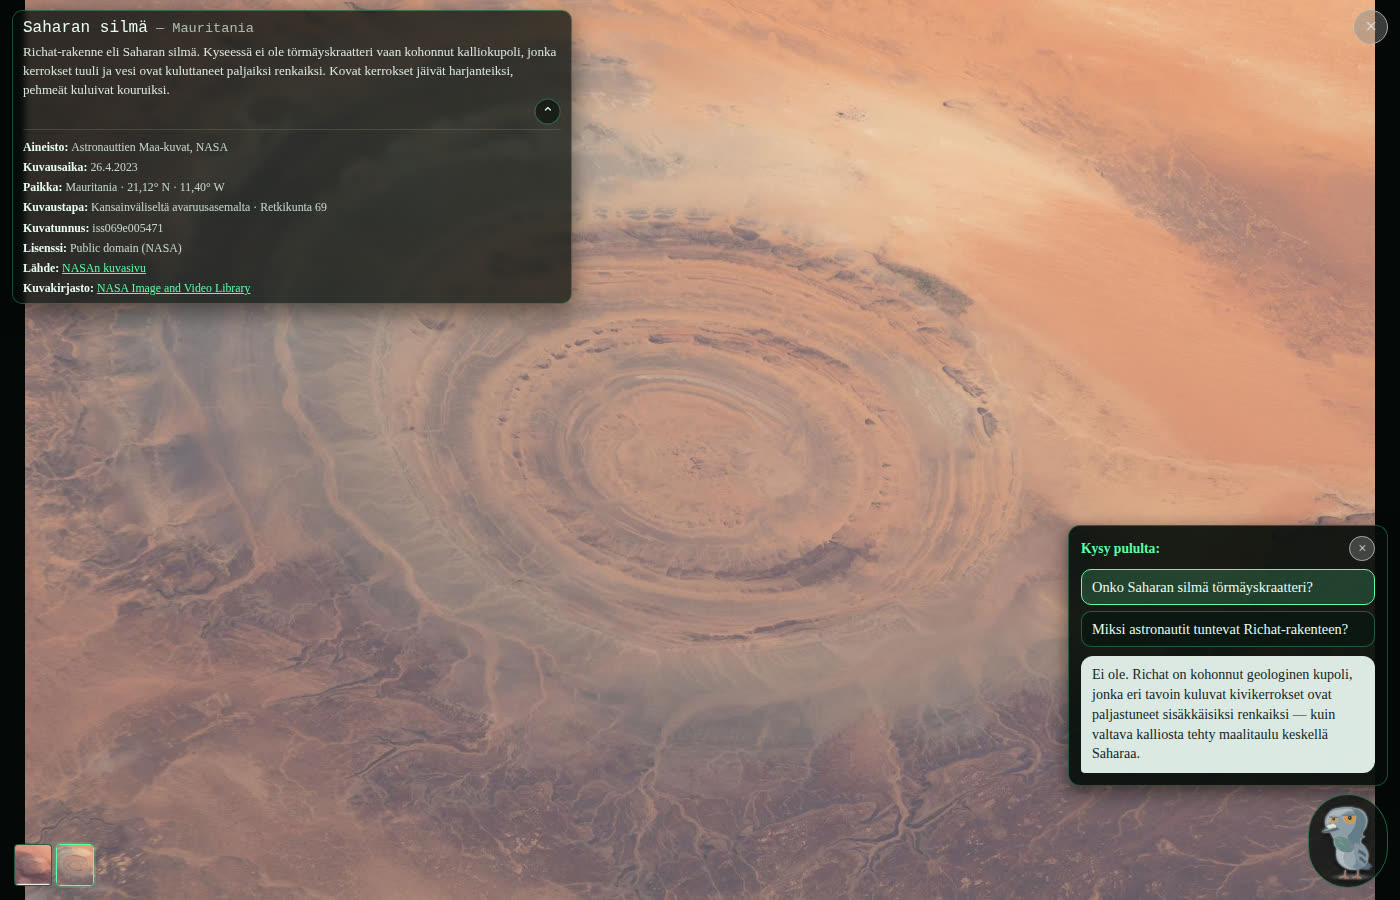
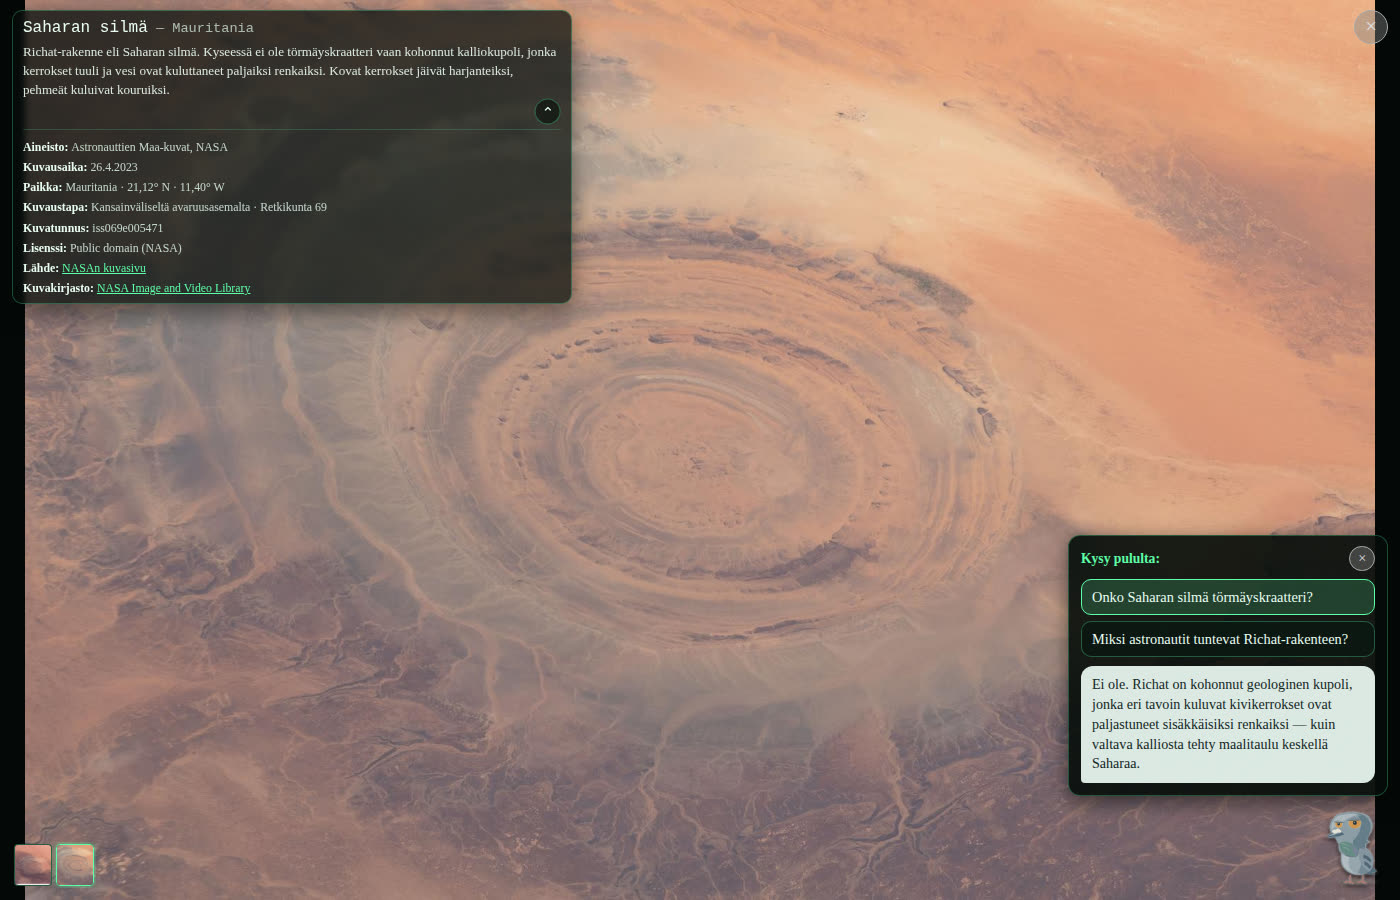
Astronautin kamera: musiikki pois, pulun ympyrä pois, pluskupla piiloon
Omistaja kuunteli ja katsoi, sanatarkasti: "Jätä musiikki pois.
Pidetään pelkkä humina. Se musiikki oli vähän outo. Ja saisiko pulun
ympäriltä tuon ympyrän pois?" — sekä puhelimella havaittu pluskupla
valokuvan päällä.

MUSIIKKI POIS. ASTRONAUTIN_MUSIIKKI_KAYTOSSA = false. Kerros, osoite,
taso ja soitinkoneisto jäävät koodiin yhden vakion taakse, jotta uuden
raidan kokeilu on yhden rivin muutos — mutta pois kytkettynä kerrosta ei
ladata lainkaan (haePuskuri palaa heti) eikä soiteta. Verkkoa ei kuluteta
raidalla, jota ei soiteta.

PULUN YMPYRÄ POIS. Tumma pohja, vihreä reunus, pyöristys ja varjo ovat
poissa: hahmo seisoo suoraan kuvan päällä ja erottuu omasta
kaksoisvarjostaan. Osuma-ala säilyy läpinäkyvänä, min-width ja
min-height 44 px — läpinäkyvä ala ei näy mutta ottaa sormen vastaan.

PLUSKUPLA PIILOON. button.pollo-kuplapalautus on oma position: fixed
-nappinsa suoraan bodyssa eikä kuplapinon sisällä, joten pinon piilotus
ei osunut siihen ja se jäi puhelimella valokuvan päälle. Valitsin sekä
css/satelliitti.css:ään että kriittiseen varatyyliin.

Vartiot: savuke-astro-aani mittaa nyt feidin AJASTETUISTA ARVOISTA
(setValueAtTime + linearRampToValueAtTime) eikä näytteistä — kontin
nälkiinnyttämä pääsäie ehti joskus ohittaa koko nousun ennen ensimmäistä
näytettä. Lukema on 0 → 0,2609 täsmälleen 2,00 s. Savuke laskee myös
pyynnöt musiikin osoitteeseen (0) ja pitkät soittimet (1). Uudet
vartiot valokuvasavukkeessa: pulun napin tausta on läpinäkyvä, reunaa ja
[…]

Changed region(s): [[0.7679, 0.56, 0.9829, 0.9956]]

diff --git a/js/linssit/satelliitti-aani.js b/js/linssit/satelliitti-aani.js
@@ -36,9 +36,12 @@
  * ------------------------------------------------------------------
  *
  *   humina    aseman hiljainen pohja, −30,48 LUFS, 84 s, soi aina.
- *   musiikki  avaruusteemainen raita huminan PÄÄLLE. Tiedostoa ei ole
- *             vielä olemassa; puuttuva raita on normaali tila, ei
- *             virhe (sama sääntö kuin js/siirtymamusiikki.js:ssä).
+ *   musiikki  avaruusteemainen raita huminan PÄÄLLE — KYTKETTY POIS
+ *             (omistaja 16.9.2026 kuunneltuaan: *"Jätä musiikki pois.
+ *             Pidetään pelkkä humina."*). Kerros jää koodiin vakion
+ *             ASTRONAUTIN_MUSIIKKI_KAYTOSSA taakse. Puuttuva raita on
+ *             joka tapauksessa normaali tila eikä virhe (sama sääntö
+ *             kuin js/siirtymamusiikki.js:ssä).
  *
  * Molemmat elävät SAMASSA soittimessa: yksi `avaaAstronautinAani`
  * koko linssille. Kohteen tai kuvan vaihto ei kutsu tätä lainkaan,
@@ -100,16 +103,23 @@ export const ASTRONAUTIN_HUMINA = 'https://media.matkakirja.app/matkakirja/aanet
   + '93aaf7fb15092bac80abd1d740aa2a22a0fdb761558df2273673bc263fde2f2b.mp3';
 
 /*
- * MUSIIKIN OSOITE ON VAKIO, VAIKKA TIEDOSTOA EI VIELÄ OLE (Raamattu
- * kohta 17: musiikki on vahvistettu, Codex generoi). Sama
- * etukäteisnimeäminen kuin siirtymäraidoilla: kytkentä on pelissä
- * ennen raitaa, ja 404 on hiljainen normaalitila.
+ * MUSIIKIN OSOITE JÄÄ, MUTTA MUSIIKKI EI SOI (omistaja 16.9.2026,
+ * kuuntelun jälkeen, sanatarkasti: *"Jätä musiikki pois. Pidetään pelkkä
+ * humina. Se musiikki oli vähän outo."*).
+ *
+ * Raita on ämpärissä (astronautin-kamera-musiikki-lyria.mp3), ja Raamatun
+ * kohta 17 tilasi sen huminan lisäksi — mutta kuultuaan sen omistaja
+ * peruutti. KOODIA EI POISTETA VAAN KYTKETÄÄN POIS: kerros, osoite ja
+ * koko soitinkoneisto jäävät paikalleen yhden vakion taakse, joten uuden
+ * raidan kokeilu on yhden rivin muutos eikä uusi toteutus. Pois
+ * kytkettynä kerrosta EI ladata lainkaan — verkkoa ei kuluteta raidalla,
+ * jota ei soiteta.
  */
 export const ASTRONAUTIN_MUSIIKKI = 'https://media.matkakirja.app/matkakirja/aanet/linssit/'
   + 'astronautin-kamera-musiikki-lyria.mp3';
 
-/** Soitetaanko musiikkikerros lainkaan? (Soi vain jos tiedosto löytyy.) */
-export const ASTRONAUTIN_MUSIIKKI_KAYTOSSA = true;
+/** Soitetaanko musiikkikerros lainkaan? EI (omistaja 16.9.2026). */
+export const ASTRONAUTIN_MUSIIKKI_KAYTOSSA = false;
 
 /*
  * KERROSTEN VOIMAT — kuulokokeen nupit, kuten kaikki pelin äänitasot.
@@ -120,8 +130,9 @@ export const ASTRONAUTIN_MUSIIKKI_KAYTOSSA = true;
  * Humina ei kuitenkaan ole kappale vaan pohjaväri: se saa jäädä
  * selvästi sen alle (0,45 ≈ −3,7 dB linssiraidan tasosta).
  *
- * Musiikki generoidaan samalla Lyria-reseptillä kuin muut linssiraidat,
- * joten sen voima on sama 0,11 — ja se soi huminan PÄÄLLÄ.
+ * Musiikin voima on sama 0,11 kuin muilla Lyria-linssiraidoilla. Se on
+ * yhä tässä, vaikka kerros on kytketty pois: jos omistaja joskus haluaa
+ * toisen raidan, taso on jo mietitty eikä sitä tarvitse arvata uudelleen.
  */
 export const KERROKSET = {
   humina: { osoite: ASTRONAUTIN_HUMINA, voima: 0.45, nousuMs: 2000 },
@@ -174,6 +185,12 @@ export function astronautinTaso(nimi) {
  * peilattu tiedosto: 404 kertoo vain, ettei raitaa vielä ole.
  */
 async function haePuskuri(nimi, ctx) {
+  /*
+   * POIS KYTKETTYÄ KERROSTA EI LADATA. `kaynnista` palaa jo ennen tätä,
+   * mutta sääntö kuuluu myös tänne: lataus on moduulin ainoa verkkokutsu,
+   * eikä sitä saa tehdä raidalle, jota ei soiteta.
+   */
+  if (nimi === 'musiikki' && !ASTRONAUTIN_MUSIIKKI_KAYTOSSA) return null;
   if (puuttuvat.has(nimi)) return null;
   if (puskurit.has(nimi)) return puskurit.get(nimi);
   const osoite = KERROKSET[nimi]?.osoite;
@@ -311,6 +328,8 @@ export function avaaAstronautinAani() {
           taso: soiva ? Number(soiva.gain.gain.value.toFixed(4)) : 0,
           tavoite: Number(astronautinTaso(nimi).toFixed(4)),
           puuttuu: puuttuvat.has(nimi),
+          /* Kytketty pois (omistaja 16.9.2026): ei ladata eikä soiteta. */
+          poissa: nimi === 'musiikki' && !ASTRONAUTIN_MUSIIKKI_KAYTOSSA,
         };
       }
       return { elossa, kytkin: musiikkiPaalla(), kerrokset };

diff --git a/css/satelliitti.css b/css/satelliitti.css
@@ -166,8 +166,17 @@ body.aikajana-pulu-piilossa .livia-kasvot-pinta {
  * tätä kesken jäänyt kuplasarja jäi ruudun alalaitaan avaruuden
  * päälle.
  */
+/*
+ * PLUSKUPLA KUULUU SAMAAN JOUKKOON (omistajan havainto 16.9.2026,
+ * puhelin). Kun luenta tai linssi imee pulun repliikit pinoon, niiden
+ * tilalle jää PLUSKUPLA (js/pollo.js `.pollo-kuplapalautus`) — oma
+ * `position: fixed` -nappinsa SUORAAN bodyssa, ei pinon sisällä. Se ei
+ * siis kadonnut pinon mukana, vaan jäi kellumaan valokuvan päälle
+ * ruudun alalaitaan. Mitattu 390 px:llä.
+ */
 body.aikajana-pulu-piilossa .pollo-kuplapino,
-body.aikajana-pulu-piilossa .pollo-kuplapino-kehys {
+body.aikajana-pulu-piilossa .pollo-kuplapino-kehys,
+body.aikajana-pulu-piilossa .pollo-kuplapalautus {
   visibility: hidden;
   pointer-events: none;
 }
@@ -765,21 +774,49 @@ body.aikajana-pulu-piilossa .satelliitti-pulukulma .minipulu {
   visibility: visible;
 }
 
+/*
+ * ── PULU SEISOO SUORAAN KUVAN PÄÄLLÄ, ILMAN YMPYRÄÄ ──────────────
+ *
+ * OMISTAJA 16.9.2026 kuunneltuaan ja katsottuaan, sanatarkasti:
+ * *"Ja saisiko pulun ympäriltä tuon ympyrän pois?"*
+ *
+ * Tumma pyöreä pohja ja vihreä reunus ovat poissa: nappi on
+ * LÄPINÄKYVÄ KEHYS, jonka sisällä hahmo erottuu omasta
+ * varjostaan (js/minipulu.js asettaa kaksi drop-shadowia, vaalean
+ * ääriviivan ja tumman pudotusvarjon — juuri siksi se toimii myös
+ * ilman pohjaa).
+ *
+ * KOSKETUSALUE EI SAA KADOTA YMPYRÄN MUKANA. Ilman taustaa napin oma
+ * ala olisi pelkkä hahmon laatikko, ja kapealla ruudulla hahmo on vain
+ * 46 px leveä. `min-width`/`min-height` pitää osuma-alan vähintään
+ * 44 px:ssä (pelin oma kosketusraja), ja koska tausta on läpinäkyvä,
+ * ylimääräinen ala ei näy — se vain ottaa sormen vastaan.
+ */
 .satelliitti-pulunappi {
   align-self: flex-end;
   width: auto;
-  min-width: 0;
-  min-height: 0;
-  padding: 4px;
-  border: 1px solid rgba(93, 255, 168, 0.35);
-  border-radius: 999px;
-  background: rgba(6, 13, 10, 0.78);
+  min-width: 44px;
+  min-height: 44px;
+  padding: 0;
+  border: 0;
+  border-radius: 0;
+  background: transparent;
+  box-shadow: none;
+  display: flex;
+  align-items: flex-end;
+  justify-content: center;
   line-height: 0;
   cursor: pointer;
-  display: block;
 }
 
-.satelliitti-pulunappi:hover { border-color: var(--satelliitti-vihrea, #5dffa8); }
+/*
+ * Osoittimen alla hahmo kirkastuu hieman — ei kehystä eikä pohjaa,
+ * koska juuri ne omistaja poisti. Suodin on NAPISSA eikä hahmossa:
+ * js/minipulu.js kirjoittaa hahmon oman `filter`in inline-tyyliksi
+ * (kaksi drop-shadowia), ja inline voittaa tyylitiedoston — hahmoon
+ * osoitettu sääntö ei siis menisi koskaan perille.
+ */
+.satelliitti-pulunappi:hover { filter: brightness(1.15); }
 .satelliitti-pulunappi[disabled] { cursor: default; opacity: 0.6; }
 
 /*

diff --git a/js/linssit/satelliitti.js b/js/linssit/satelliitti.js
@@ -374,6 +374,7 @@ body.aikajana-pulu-piilossa .pollo-nappi,
 body.aikajana-pulu-piilossa .pollo-paneeli,
 body.aikajana-pulu-piilossa .pollo-kuplapino,
 body.aikajana-pulu-piilossa .pollo-kuplapino-kehys,
+body.aikajana-pulu-piilossa .pollo-kuplapalautus,
 body.aikajana-pulu-piilossa .livia-kasvot-pinta {
   visibility: hidden;
   pointer-events: none;

diff --git a/docs/raportit/viesti-fable-astro-aani-pulu-20260916.md b/docs/raportit/viesti-fable-astro-aani-pulu-20260916.md
@@ -222,3 +222,48 @@ jossa on kohteen kaksi kysymystä ja napautetun kysymyksen vastaus.
    kanssa. Kytkentä on valmis ja soi; jos raita halutaan vaihtaa, vain
    tiedosto vaihtuu — koodiin ei kosketa.
 3. Versionosto ja julkaisu Fablen aikataulun mukaan.
+
+---
+
+## LISÄYS raporttiin 16.9.2026 illalla — kuuntelun jälkeen
+
+Omistaja kuunteli ja katsoi, sanatarkasti: *"Jätä musiikki pois.
+Pidetään pelkkä humina. Se musiikki oli vähän outo. Ja saisiko pulun
+ympäriltä tuon ympyrän pois?"* Lisäksi puhelimella havaittiin, että
+pulun **pluskupla** jäi valokuvan päälle.
+
+1. **MUSIIKKI POIS.** `ASTRONAUTIN_MUSIIKKI_KAYTOSSA = false`. Kerros,
+   osoite, taso ja koko soitinkoneisto jäävät koodiin yhden vakion
+   taakse — uuden raidan kokeilu on yhden rivin muutos — mutta pois
+   kytkettynä kerrosta **ei ladata** (`haePuskuri` palaa heti) eikä
+   soiteta. Mitattu savukkeella: pyyntöjä musiikin osoitteeseen **0**,
+   pitkiä soittimia **1** (humina).
+2. **PULUN YMPYRÄ POIS.** Tumma pohja, vihreä reunus, pyöristys ja varjo
+   ovat poissa; hahmo seisoo suoraan kuvan päällä ja erottuu omasta
+   kaksoisvarjostaan (js/minipulu.js). Osuma-ala säilyy läpinäkyvänä:
+   `min-width`/`min-height` 44 px. Mitattu: tausta `rgba(0, 0, 0, 0)`,
+   reuna 0 px, pyöristys 0 px, varjo `none`, nappi 70 × 84 px
+   (työpöytä) ja 46 × 56 px (puhelin).
+3. **PLUSKUPLA PIILOON.** `button.pollo-kuplapalautus` on oma
+   `position: fixed` -nappinsa **suoraan bodyssa**, ei kuplapinon
+   sisällä — siksi pinon piilotus ei osunut siihen ja se jäi puhelimella
+   valokuvan päälle. Valitsin lisättiin sekä `css/satelliitti.css`:ään
+   että kriittiseen varatyyliin (`js/linssit/satelliitti.js`
+   `KRIITTINEN_TYYLI`); `tests/satelliitti-avaruus.test.mjs` vartioi,
+   että ne pysyvät sanatarkkana osajoukkona toisistaan.
+
+**Feidin kesto mitataan nyt suoraan.** Aiempi näytteistys ei kestänyt
+kontin pääsäikeen nälkiinnyttämistä (ensimmäinen näyte osui joskus vasta
+nousun jälkeen). Savuke kirjaa nyt `setValueAtTime`- ja
+`linearRampToValueAtTime`-kutsut ja lukee nousun niistä: **0 → 0,2609
+täsmälleen 2,00 sekunnissa** molemmilla ruuduilla.
+
+`savuke-astro-aani.mjs` ohittaa `vendor/globe.gl`-kirjaston omat
+animaatiosilmukan virheet sivuvirheiden laskennasta (ohjelmisto-WebGL
+kaataa sen ajoittain) ja tulostaa ohitettujen määrän; pelin omat virheet
+lasketaan yhä yhtä tarkasti.
+
+**Tulokset tämän muutoksen jälkeen:** `tests/satelliitti*.test.mjs`
+104/104, `savuke-astro-aani.mjs` **24/24**, `savuke-astro-valokuva.mjs`
+**35/35** työpöytä ja **35/35** puhelin. Kuvat päivitetty (ympyrätön
+pulu).
